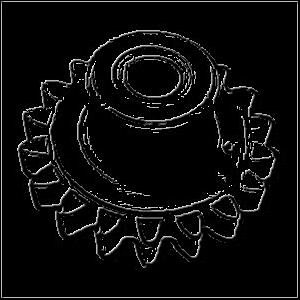
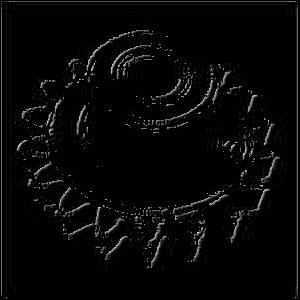
t

diff --git a/edge.py b/edge.py
@@ -27,9 +27,7 @@ class Edge:
                 G_x += self.kernel_x[i][j] * win[i][j]
                 G_y += self.kernel_y[i][j] * win[i][j]
 
-        theta = math.atan(G_y / (G_x + 0.00001))
-
-        return [math.sqrt(G_x**2 + G_y**2) / 1081.9, theta]
+        return math.sqrt(G_x**2 + G_y**2) / 1081.9
 
     def get_edges(self):       
         im = Image.new('RGB', (self.w, self.h), 0)
@@ -42,69 +40,8 @@ class Edge:
                     for m in range(-1, 2):
                         window[k][m] = list(self.px[i+m, j+k])[0]
                 G = self.convolve(window)
-                if (G[0] > self.threshold):
-                    p[i, j] = self.get_color(G[1])
+                if (G > self.threshold):
+                    p[i, j] = (255,255,255)
                 window[:] = 0 
 
         im.save('Edge/'+self.name)
-
-    def mult(self, x,y,z):
-        arr = [[math.sqrt(3)/2, 0, 1/2], [-math.sqrt(2)/4, math.sqrt(2)/2, math.sqrt(6)/4], [-math.sqrt(2)/4, -math.sqrt(2)/2, math.sqrt(6)/4]]
-
-        vec = [x, y, z]
-        newv = [0, 0, 0]
-
-        for i in range(3):
-            for j in range(3):
-                newv[i] += int(vec[j] * arr[i][j])   
-
-        return newv
-
-
-    def get_color(self, t):
-        arr = [0,0,0]
-        k = (math.pi)/3
-        a = math.sqrt(3)
-        theta = (math.pi/2)-np.arccos(a/3)
-        r = (127.5)*math.sqrt(3)
-        c = r*a
-        if (0<= t < k):
-            x = c/(math.tan(t)+a)
-            y = math.tan(t)*x
-            z = (-(1/r)*2*x+2)*255*(math.sqrt(2)*math.sin(theta)-1/2)+127.5
-            arr = self.mult(x,y,z)
-        if (k<= t < 2*k):
-            x = c/(2*math.tan(t))
-            y = math.tan(t)*x
-            z = -(1/r)*(x-r/2)*255*(1/2-math.sqrt(2)*math.sin(theta))+255*math.sqrt(2)*math.sin(theta)
-            arr = self.mult(x,y,z)
-        if (2*k<= t < 3*k):
-            x = c/(math.tan(t)-a)
-            y = math.tan(t)*x
-            z = -(1/r)*(2*x+r)*255*(math.sqrt(2)*math.sin(theta)-1/2)+127.5
-            arr = self.mult(x,y,z)
-        if (3*k<= t < 4*k):
-            x = -c/(math.tan(t)+a)
-            y = math.tan(t)*x
-            z = (1/r)*(2*x+2*r)*255*(1/2-math.sqrt(2)*math.sin(theta))+255*math.sqrt(2)*math.sin(theta)
-            arr = self.mult(x,y,z)
-        if (4*k<= t < 5*k):
-            x = -c/(2*math.tan(t))
-            y = math.tan(t)*x
-            z = (1/r)*(x+r/2)*255*(math.sqrt(2)*math.sin(theta)-1/2)+127.5
-            arr = self.mult(x,y,z)
-        if (5*k <= t < 6*k):
-            x = -c/(math.tan(t)-a)
-            y = math.tan(t)*x
-            z = (1/r)*(2*x-r)*255*(1/2-math.sqrt(2)*math.sin(theta))+255*math.sqrt(2)*math.sin(theta)
-            arr = self.mult(x,y,z)
-
-        for d in range(3):
-            arr[d] = int(arr[d]*(mp)+arr[d]*(1-mp)/4)
-            
-        return tuple(arr)
-
-    
-
-
-        
